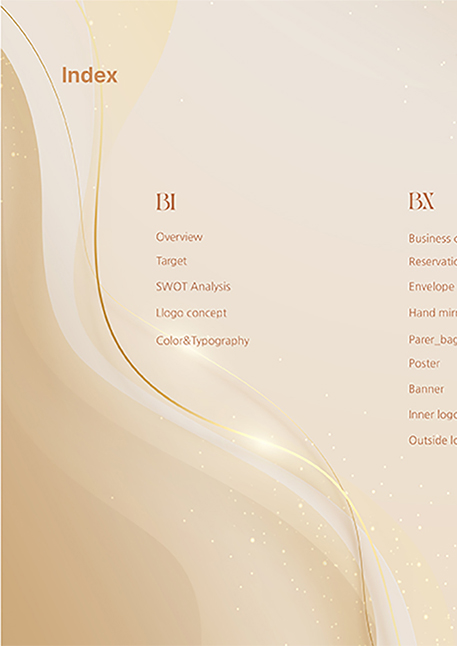
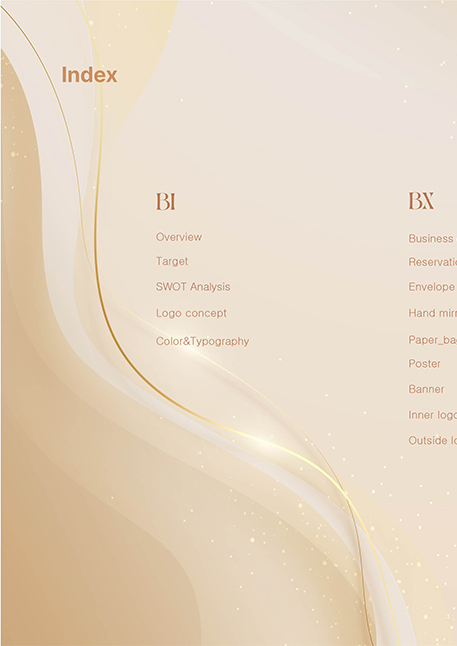
Add files via upload

diff --git a/e_book/samples/basic/index.html b/e_book/samples/basic/index.html
@@ -17,8 +17,8 @@
 			<div style="background-image:url(pages/1-1.jpg)"></div>
 			<div style="background-image:url(pages/2.jpg)"></div>
 			<div style="background-image:url(pages/3.jpg)"></div>
-			<div style="background-image:url(pages/4.png)"></div>
-			<div style="background-image:url(pages/5.png)"></div>
+			<div style="background-image:url(pages/4.jpg)"></div>
+			<div style="background-image:url(pages/5.jpg)"></div>
 			<div style="background-image:url(pages/6.jpg)"></div>
 			<div style="background-image:url(pages/7.jpg)"></div>
 			<div style="background-image:url(pages/8.jpg)"></div>
@@ -37,7 +37,7 @@
 			<div style="background-image:url(pages/21.jpg)"></div>
 			<div style="background-image:url(pages/22.jpg)"></div>
 			<div style="background-image:url(pages/23.jpg)"></div>
-			<div style="background-image:url(pages/24.png)"></div>
+			<div style="background-image:url(pages/24.jpg)"></div>
 			<div style="background-image:url(pages/25.jpg)"></div>
 			<div style="background-image:url(pages/26.jpg)"></div>
 			<div style="background-image:url(pages/27.jpg)"></div>
@@ -71,8 +71,8 @@
 			<div style="background-image:url(pages/55.jpg)"></div>
 			<div style="background-image:url(pages/56.jpg)"></div>
 			<div style="background-image:url(pages/57.jpg)"></div>
-			<div style="background-image:url(pages/58.png)"></div>
-			<div style="background-image:url(pages/59.png)"></div>
+			<div style="background-image:url(pages/58.jpg)"></div>
+			<div style="background-image:url(pages/59.jpg)"></div>
 			<div style="background-image:url(pages/60.jpg)"></div>
 		</div>
 	</div>
